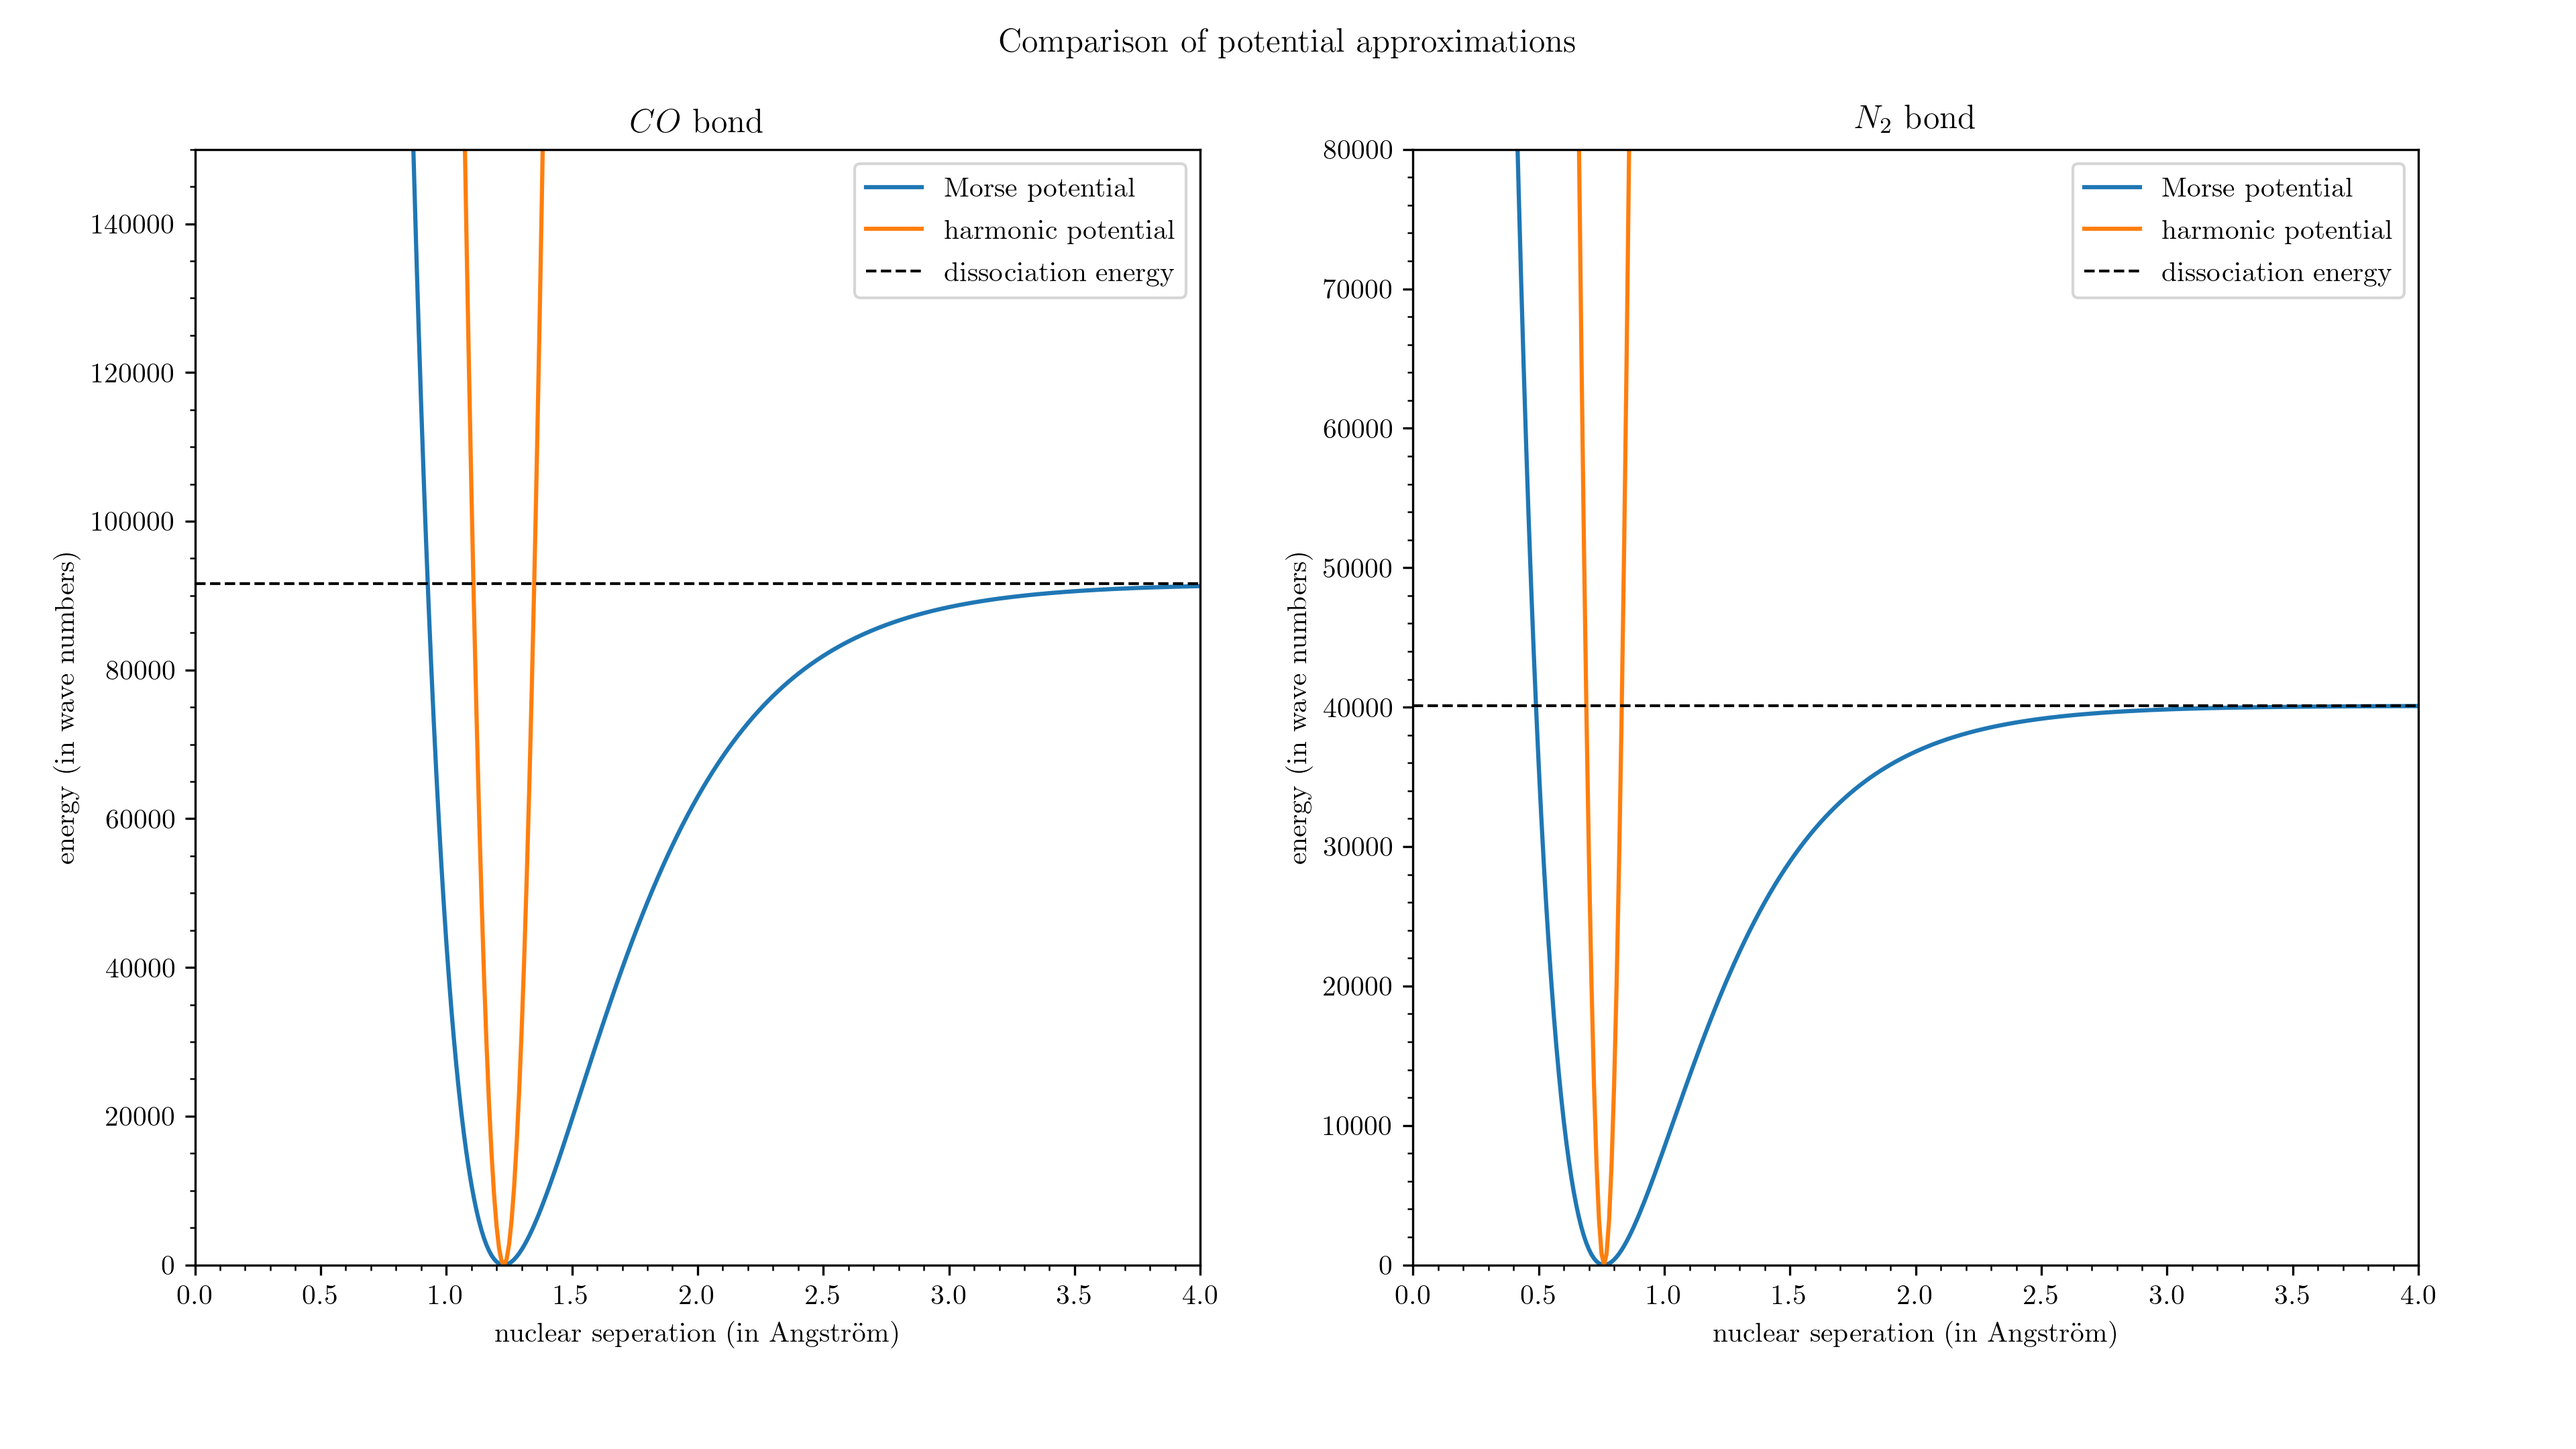
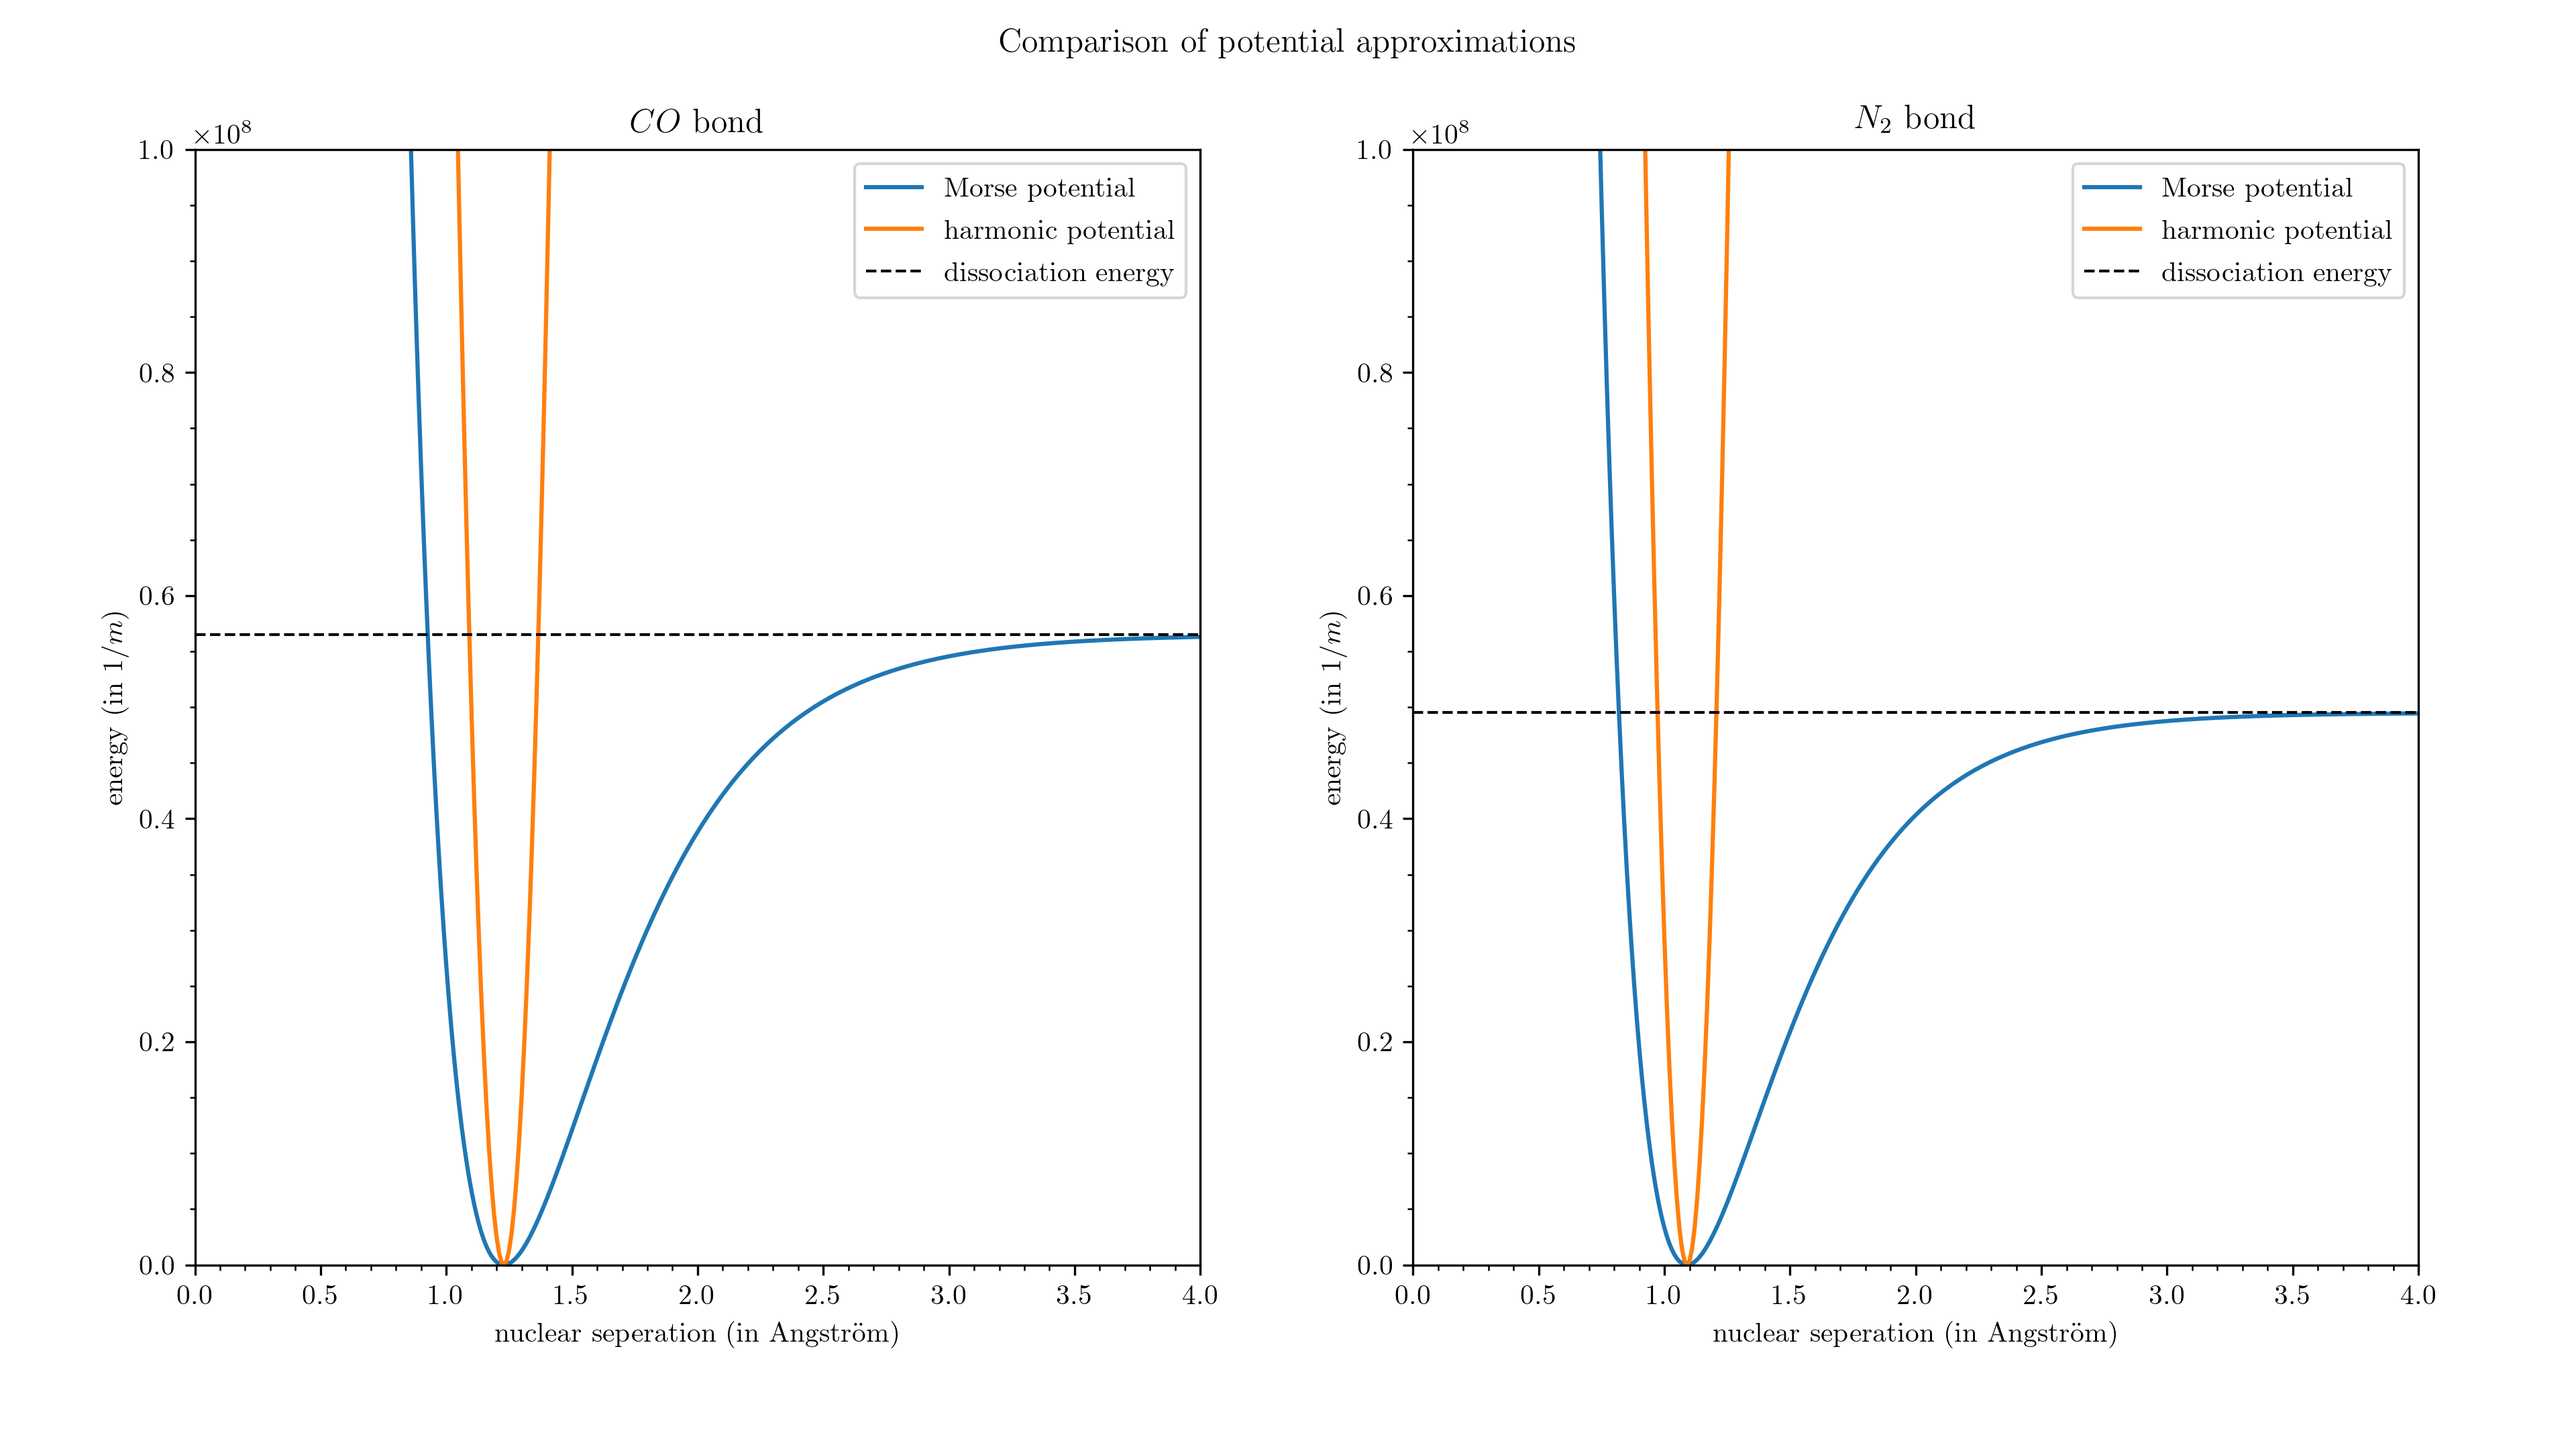
updated plot

diff --git a/6_9_1_plot/plot.py b/6_9_1_plot/plot.py
@@ -6,54 +6,54 @@ rc('text', usetex=True)
 
 def plotCO(ax):
   # For C-O bond, values taken from Cornell (1995) paper (p. 5194)and Morse (1929) paper (p. 62)
-  D_e = 91600 # wave no = 1 / cm
-  r_0 = 1.229 # Angström
-  a = 2.29 # 1 / Angström
-  k_r = 12.53e-3 # 1 / (Angström^3)
+  D_e = 5.65e7 # 91600 # wave no = 1 / cm (online)
+  r_0 = 1.229 # Angström (Morse)
+  a = 2.29 # 1 / Angström (Morse)
+  k_r = 0.06 # 12.53e-3 # 1 / (Angström^3) // // 1900 N / m (online)
   
   r = np.arange(0, 4, 0.01)
   
-  V_harmonic = 0.5 * k_r * (r - r_0)**2 * 10e8 # wave no = 1 / cm
+  V_harmonic = 0.5 * k_r * (r - r_0)**2 * 10e10 # wave no = 1 / cm
   V_morse = D_e * (1 - np.exp(-a * (r - r_0)))**2 # wave no = 1 / cm
   
   ax.plot(r, V_morse, label='Morse potential')
   ax.plot(r, V_harmonic, label='harmonic potential')
   ax.axhline(D_e, 0, 1, color='black', linestyle='--', linewidth=1, label='dissociation energy') 
   
-  ax.set_ylim(0, 150000)
+  ax.set_ylim(0, 10e7)  
   ax.set_xlim(0, 4)
   
   ax.minorticks_on()
   
   ax.set(title="$ CO $ bond")
   ax.set(xlabel="nuclear seperation (in Angström)")
-  ax.set(ylabel="energy (in wave numbers)")
+  ax.set(ylabel="energy (in $ 1 / m $)")
   ax.legend()
 
 def plotN2(ax):
-  # For H_2 bond, values taken from Cornell (1995) paper (p. 5194)and Morse (1929) paper (p. 62)
-  D_e = 40100 # wave no = 1 / cm
-  r_0 = 0.76 # Angström
-  a = 2.56 # 1 / Angström
-  k_r = 16.131e-3 # 1 / (Angström^3) // k_r = 510 N/m
+  # For N_2 bond, values taken from Cornell (1995) paper (p. 5194)and Morse (1929) paper (p. 62)
+  D_e = 4.95e7 # wave no = 1 / cm // 945 kJ / mol (online)
+  r_0 = 1.09 # Angström (Morse)
+  a = 2.56 # 1 / Angström (Morse)
+  k_r = 0.0723 # 1 / (Angström^3) // k_r = 2287 N/m (online)
   
   r = np.arange(0, 4, 0.01)
   
-  V_harmonic = 0.5 * k_r * (r - r_0)**2 * 10e8 # wave no = 1 / cm
-  V_morse = D_e * (1 - np.exp(-a * (r - r_0)))**2 # wave no = 1 / cm
+  V_harmonic = 0.5 * k_r * (r - r_0)**2 * 10e10 # wave no = 1 / m
+  V_morse = D_e * (1 - np.exp(-a * (r - r_0)))**2 # wave no = 1 / m
   
   ax.plot(r, V_morse, label='Morse potential')
   ax.plot(r, V_harmonic, label='harmonic potential')
   ax.axhline(D_e, 0, 1, color='black', linestyle='--', linewidth=1, label='dissociation energy') 
-  
-  ax.set_ylim(0, 80000)
+
+  ax.set_ylim(0, 10e7)
   ax.set_xlim(0, 4)
   
   ax.minorticks_on()
   
   ax.set(title="$ N_2 $ bond")
   ax.set(xlabel="nuclear seperation (in Angström)")
-  ax.set(ylabel="energy (in wave numbers)")
+  ax.set(ylabel="energy (in $ 1 / m $)")
   ax.legend()
 
 def main():
